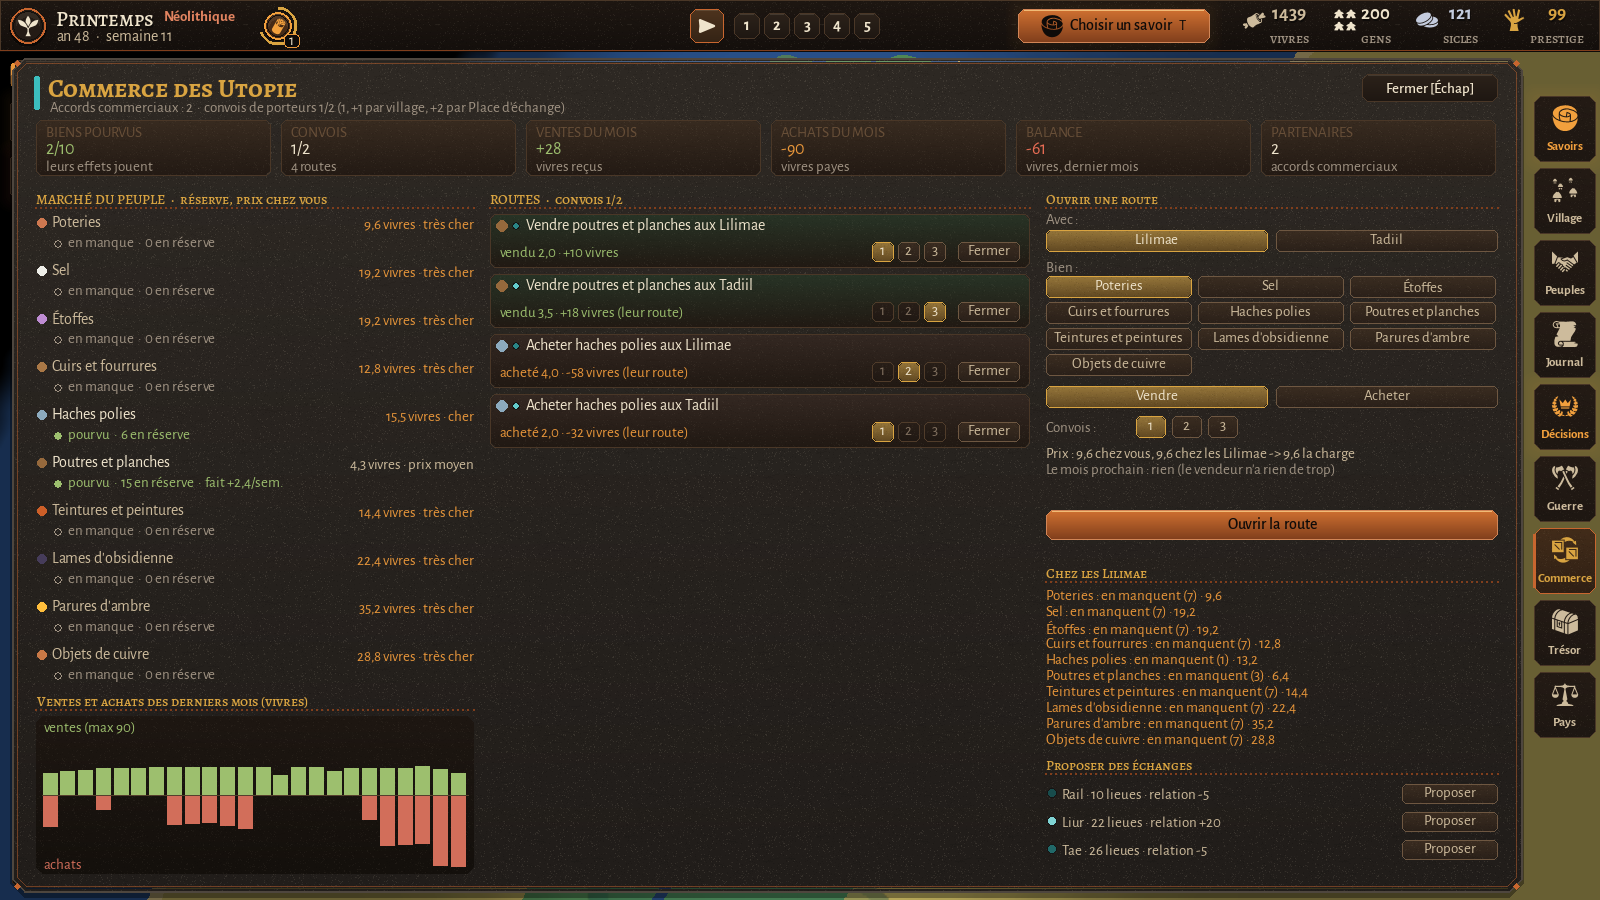
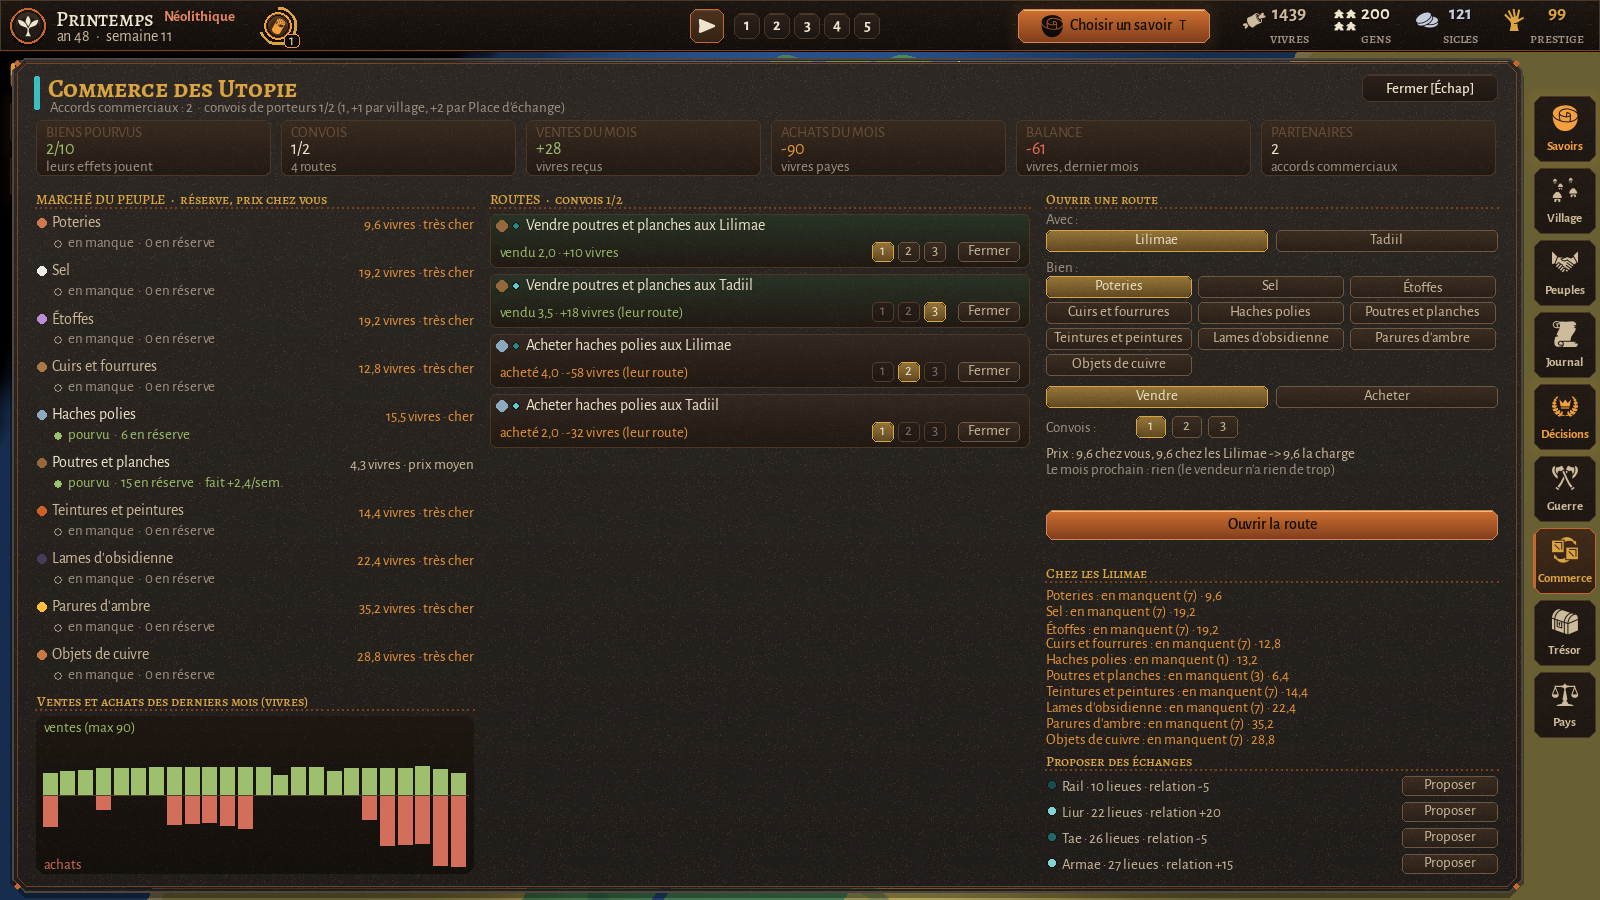
Avant / apres en grand : une image par changement de la 0.32
Treize images (docs/maquettes/lisibles/en_grand/, maq_zooms.py), l'avant
pris avec le code de la 0.31 sur ses parties. En les relisant : la liste
du commerce "Proposer des echanges" avait perdu sa quatrieme ligne (le
titre de section plus haut) ; corrige.

Changed region(s): [[0.6562, 0.84, 0.75, 0.9644], [0.875, 0.84, 0.9375, 0.9644]]

diff --git a/docs/maquettes/source_ecrans/maq_zooms.py b/docs/maquettes/source_ecrans/maq_zooms.py
@@ -1,0 +1,151 @@
+"""AVANT / APRES EN GRAND, une image par changement (0.32.0, 2026-11-19) :
+le meme morceau d'ecran pris avec la 0.31 (regard_neuf/) et la 0.32
+(lisibles/), sur SES parties (des copies), agrandi.
+python maq_zooms.py DOSSIER_REGARD_NEUF DOSSIER_LISIBLES DOSSIER_SORTIE"""
+import os
+import sys
+
+os.environ["SDL_VIDEODRIVER"] = "dummy"
+sys.path.insert(0, os.path.join(os.path.dirname(__file__), "..", "..", ".."))
+import pygame  # noqa: E402
+
+from src.kora import theme  # noqa: E402
+from src.kora.theme import C  # noqa: E402
+
+before, after, out = sys.argv[1], sys.argv[2], sys.argv[3]
+os.makedirs(out, exist_ok=True)
+A3, A48 = "partie_an3", "partie_an48"
+# (fichier, titre, ce qu'il faut regarder, [(capture, rectangle 1600x900, zoom, "pile" ou "cote")])
+CHANGES = (
+    ("01_fiche_de_la_bande", "La fiche de la bande",
+     "Avant : « Stock : 0 sem. » était écrit comme « Jungle · Été ». Après : deux jauges. VIVRES (sa réserve, en "
+     "semaines) et COLLECTE (ce qu'elle trouve, le trait blanc étant ce qu'il lui faut). Orange puis rouge quand la faim "
+     "approche, avec une phrase. Les ordres impossibles sont vraiment éteints ; seul « Scinder » est possible ici.",
+     [(f"{A3}/05_unite_choisie.png", (528, 622, 544, 272), 2, "pile")]),
+    ("02_barre_du_haut", "La barre du haut (la souris sur les vivres)",
+     "Avant : trois nombres sans nom, rien au survol. Après : chacun son nom (vivres, gens, prestige), une petite pointe "
+     "quand il monte ou baisse depuis un mois, rouge quand ça va mal (14 vivres pour 42 personnes), et une fiche au "
+     "survol qui explique. « Choisir un savoir » est un vrai bouton.",
+     [(f"{A3}/x3_hud_survol.png", (960, 0, 640, 160), 2, "pile")]),
+    ("03_colonne_de_gauche", "La colonne de gauche : ce qui vous attend",
+     "En haut, votre partie de l'an 48 : avant, les cartes d'événement seules ; après, une alerte (« Disette en vue à "
+     "Ilsen », un clic ouvre le village) au-dessus d'elles. En bas, votre partie neuve de l'an 3 : avant, rien ; après, "
+     "le chemin du premier village, ses quatre étapes et ce qui manque à celle en cours.",
+     [(f"{A48}/02_panneau_tribu.png", (0, 52, 310, 220), 2, "cote"),
+      (f"{A3}/05_unite_choisie.png", (0, 52, 310, 170), 2, "cote")]),
+    ("04_carte_evenement", "Une carte d'événement",
+     "Avant : « +4 à 7 personnes, -1 sem. de vivres » en or, le gain et la perte pareils. Après : des pastilles, le gain "
+     "en vert avec une pointe vers le haut, la perte en rouge avec une pointe vers le bas. « Plus tard » est un bouton.",
+     [(f"{A3}/06_evenement.png", (420, 300, 762, 300), 1.6, "pile")]),
+    ("05_panneau_village_haut", "Le panneau Village : la liste des villages",
+     "Avant : l'icône couvrait le « I » d'Ilsen, « disette en vue » sans dire pourquoi. Après : le nom en entier ; une "
+     "ligne qui dit ce que deviendra le grain (« le grain manquera 2 sem. : rationnez, achetez... ») ; la stabilité dit "
+     "ce qui la porte (vert) et ce qui la mine (rouge).",
+     [(f"{A48}/02_panneau_tribu.png", (846, 64, 680, 270), 1.8, "pile")]),
+    ("06_panneau_village_bas", "Le panneau Village : la réserve du peuple",
+     "Avant : dix biens sur une place prévue pour quatre ; les lignes s'écrivaient les unes sur les autres. Après : "
+     "dix biens sur cinq rangs, un point plein quand le bien est pourvu, un rond vide quand il manque.",
+     [(f"{A48}/02_panneau_tribu.png", (846, 520, 680, 202), 1.8, "pile")]),
+    ("07_fiche_et_panneau_tribu", "La fiche de la bande et le panneau Tribu",
+     "Avant : le panneau Tribu s'ouvrait par-dessus la fiche de la bande et la coupait. Après : la fiche se range à "
+     "gauche du panneau (et s'efface, sur un petit écran, s'il n'y a pas la place).",
+     [(f"{A3}/x1_tribu_bande.png", (0, 52, 1600, 848), 0.78, "pile")]),
+    ("08_decisions", "Les décisions",
+     "Avant : les titres en capitales, « ce que ça fait » tout en vert. Après : le titre commun (petites capitales, "
+     "points dessous) ; ce que ça coûte marqué d'une pointe rouge, ce que ça fait d'une pointe verte.",
+     [(f"{A48}/04_decisions.png", (522, 140, 980, 380), 1.25, "pile")]),
+    ("09_commerce_marche", "Le commerce : le marché du peuple",
+     "Avant : quatre éléments par bien (prix, barre, réserve, « fait 0,0 · mange 1,0 / sem. ») : 30 lignes pour 10 "
+     "biens. Après : deux lignes par bien (le prix ; pourvu ou non, la réserve, ce qu'on en fait), le reste au survol.",
+     [(f"{A48}/04_commerce.png", (24, 185, 470, 520), 1.3, "cote")]),
+    ("10_lieues_et_fermer", "Les lieues, et Fermer",
+     "Avant : « 10 cases » alors qu'il n'y a plus de cases, et Fermer en orange (comme l'action principale). Après : "
+     "« 10 lieues » (dans 42 textes du jeu), et Fermer gris partout.",
+     [(f"{A48}/04_commerce.png", (1040, 760, 470, 110), 2, "pile"),
+      (f"{A48}/04_commerce.png", (1350, 70, 170, 36), 2, "cote")]),
+    ("11_village_titres_contrastes", "L'écran du village : titres et contrastes",
+     "Avant : « CHAMPS » et « RÉCOLTES DES DERNIÈRES ANNÉES » en capitales simples, à côté de titres en petites "
+     "capitales ; le gris des étiquettes pâle sur la pierre. Après : un seul style de titre ; un fond plus sombre et des "
+     "gris plus clairs (assez de contraste partout).",
+     [(f"{A48}/03_village_village.png", (24, 148, 1150, 380), 1.1, "pile")]),
+    ("12_journal", "Le journal (votre partie neuve, filtre Survie)",
+     "Avant : « Famine : 1 morts. » semaine après semaine, 17 lignes. Après : une ligne, « Famine : 17 morts », an 1, "
+     "semaines 26 à 52, 17 fois. Les nouvelles en bas à droite ne s'empilent plus non plus.",
+     [(f"{A3}/x2_journal_survie.png", (1188, 66, 340, 560), 1.6, "cote")]),
+    ("13_onglets", "Les onglets à droite",
+     "Avant : « Commer... » et « Décisio... » coupés. Après : les noms en entier.",
+     [(f"{A48}/02_panneau_tribu.png", (1532, 380, 66, 230), 3, "cote")]),
+)
+
+pygame.init()
+pygame.display.set_mode((10, 10))
+GAP, PAD = 24, 28
+f_note = theme.font("texte")
+cache: dict = {}
+
+
+def load(path):
+    if path not in cache:
+        cache[path] = pygame.image.load(path)
+    return cache[path]
+
+
+def piece(base, name, rect, zoom):
+    img = load(os.path.join(base, name)).subsurface(pygame.Rect(rect)).copy()
+    w, h = int(rect[2] * zoom), int(rect[3] * zoom)
+    if zoom == int(zoom):
+        return pygame.transform.scale(img, (w, h))
+    return pygame.transform.smoothscale(img, (w, h))
+
+
+def tag(surf, x, y, label, rank):
+    f = theme.font("petit_gras")
+    tw = f.size(label)[0] + 16
+    pygame.draw.rect(surf, C.charbon if rank == 0 else C.ocre_sombre, (x, y, tw, 24), border_radius=4)
+    pygame.draw.rect(surf, C.bois_clair if rank == 0 else C.ocre, (x, y, tw, 24), 1, border_radius=4)
+    surf.blit(f.render(label, True, C.os), (x + 8, y + 2))
+
+
+for fname, title, note, pairs in CHANGES:
+    blocks = []
+    for name, rect, zoom, mode in pairs:
+        a = piece(before, name, rect, zoom)
+        b = piece(after, name, rect, zoom)
+        blocks.append((a, b, mode))
+    # La largeur : la plus large des rangees.
+    def row_w(a, b, mode):
+        return a.get_width() + GAP + b.get_width() if mode == "cote" else max(a.get_width(), b.get_width())
+
+    W = max(1100, max(row_w(*bl) for bl in blocks) + 2 * PAD)
+    lines = theme.wrap(f_note, note, W - 2 * PAD)
+    H = 70 + len(lines) * 24 + 20
+    for a, b, mode in blocks:
+        H += (34 + max(a.get_height(), b.get_height())) if mode == "cote" else (34 + a.get_height() + 16 + 34 + b.get_height())
+        H += 24
+    s = pygame.Surface((W, H))
+    s.fill(C.nuit)
+    theme.title(s, title, PAD, 16, "h1")
+    y = 70
+    for line in lines:
+        s.blit(f_note.render(line, True, C.lin), (PAD, y))
+        y += 24
+    y += 20
+    for a, b, mode in blocks:
+        if mode == "cote":
+            x = PAD
+            for k, img in enumerate((a, b)):
+                tag(s, x, y, "AVANT (0.31)" if k == 0 else "APRÈS (0.32)", k)
+                s.blit(img, (x, y + 32))
+                pygame.draw.rect(s, C.bois_clair if k == 0 else C.ocre, (x - 1, y + 31, img.get_width() + 2, img.get_height() + 2), 1 if k == 0 else 2)
+                x += img.get_width() + GAP
+            y += 34 + max(a.get_height(), b.get_height()) + 24
+        else:
+            for k, img in enumerate((a, b)):
+                tag(s, PAD, y, "AVANT (0.31)" if k == 0 else "APRÈS (0.32)", k)
+                s.blit(img, (PAD, y + 32))
+                pygame.draw.rect(s, C.bois_clair if k == 0 else C.ocre, (PAD - 1, y + 31, img.get_width() + 2, img.get_height() + 2), 1 if k == 0 else 2)
+                y += 34 + img.get_height() + 16
+            y += 8
+    path = os.path.join(out, f"{fname}.png")
+    pygame.image.save(s, path)
+    print(path, s.get_size())

diff --git a/src/kora/render_trade.py b/src/kora/render_trade.py
@@ -87,10 +87,10 @@ def trade_layout(width: int, height: int, n_routes: int = 0, n_partners: int = 0
     open_r = (x0, y, rw, 30)
     y += 54
     theirs = (x0, y, rw, 24 + 16 * len(goods.GOODS))
-    y += theirs[3] + 8
+    y += theirs[3] + 4
     candidates = []
     for i in range(min(n_candidates, MAX_CANDIDATES)):
-        candidates.append({"row": (x0, y + 26 + i * 28, rw, 24), "ask": (x0 + rw - 96, y + 26 + i * 28 + 2, 96, 20)})
+        candidates.append({"row": (x0, y + 22 + i * 26, rw, 24), "ask": (x0 + rw - 96, y + 22 + i * 26 + 2, 96, 20)})
     return {
         "box": (bx, by, bw, bh),
         "close": close,
